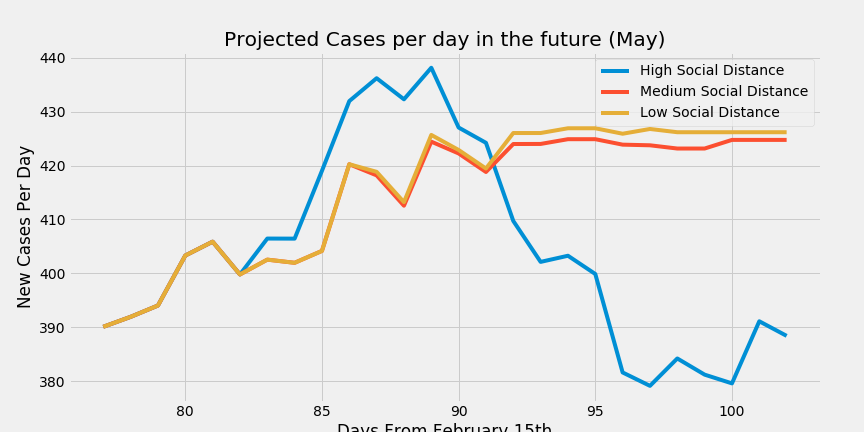
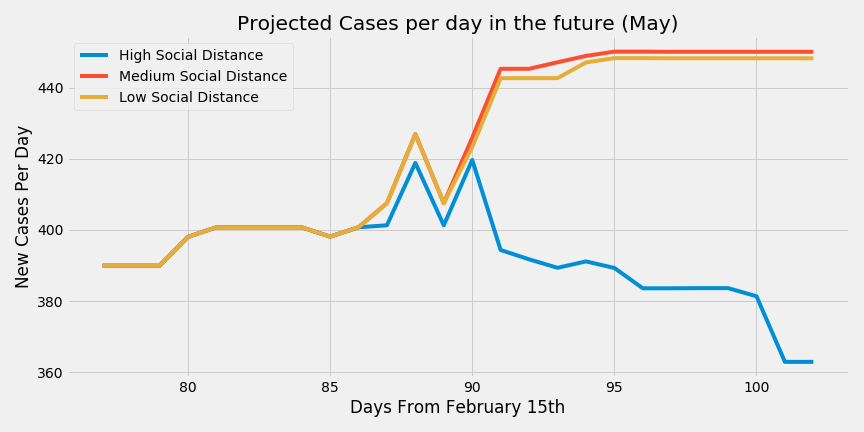
Rename commit

diff --git a/src/main.py b/src/main.py
@@ -1,9 +1,5 @@
 '''
 See notebooks/EDA.ipynb for plots
-
-Bring in data from travel from other countries - maybe that would help?
-https://travel.trade.gov/view/m-2017-I-001/index.asp
-
 '''
 import pandas as pd
 import datetime

diff --git a/README.md b/README.md
@@ -2,12 +2,15 @@
 <img src="images/covid19_economy_jpg.jpeg" width="500">
 <p>
 
-## Forecasting the Future of Covid 19 with Social Distancing 
-The recent pandemic that has struck the world has been The question on everyone's minds is when will things go back to normal in the United States from the Covid-19 pandemic? In this Capstone I attempt to predict the future number of new cases of the virus per day in New York. 
+# Forecasting the Future of Covid 19 with Social Distancing 
+The question on everyone's minds is when will things go back to normal in the United States from the Covid-19 pandemic? In this Capstone I attempt to predict the future number of new cases of the virus per day in New York and try to find an end in sight using data of how people are socially distancing.
 
-# Data + Cleaning
+## Data + Cleaning
+
+I primarily used 3 different datasets for this study and combined them into a single DataFrame for analysis and prediction.
+
 New York Times: Github Repo of cases/deaths daily per state
-The New York Times offers dataset on the number of cases and deaths by Covid-19 per each state. I created a new column of daily new cases and divided these numbers by the state's population for a fairer comparison from state to state, resulting in new cases per 1 million residents.
+The New York Times offers dataset on the number of cases and deaths by Covid-19 per each state. I created a new column of daily new cases and divided these numbers by the state's population for a fairer comparison from state to state, resulting in new cases per 1 million residents. To smooth out the many spikes in the number of new cases per day, I used a 7 day moving average and used this as the target variable.
 <p>
 <img src="images/Covid_Data.png" width="300">
 <p>
@@ -18,60 +21,75 @@ Apple offers a dataset on mobility that breaks categories into walking, driving,
 <p>
 
 Google: Global Mobility Data
-From Google, I was able to get a massive dataset detailing mobility trends througout the past few months at grocery stores/ pharmacies, parks, transit stations, retail/recreation outlets, residential, and workplaces. This data was reported as the percent change from the baseline, the median value, for the corresponding day of the week, during the 5-week period Jan 3–Feb 6, 2020. To make this measurement consistent with the apple data, I added 100 and divided by 100 to get a multiplier of normal for each day.
+From Google, I was able to get a massive dataset detailing mobility trends througout the past few months at grocery stores/ pharmacies, parks, transit stations, retail/recreation outlets, residential, and workplaces. This data was reported as the percent change from the baseline, the median value, for the corresponding day of the week, during the 5-week period Jan 3–Feb 6, 2020. To make this measurement consistent with the apple data, I added 100 and divided by 100 to get a multiplier of normal for each day. I also used a 7 day moving average for these features as well, so that weekend trends were avoided and any correlation would be easier to see.
 <p>
 <img src="images/GoogleData.png" width="600">
 <p>
 
-
-
-
 # Exploratory Data Analysis
+Although there has been news about a shortage of tests being available for the virus in the USA, the data show a very heavy correlation between deaths and cases for New York, so I decided to focus on new cases instead of deaths, as there is earlier and more data available for cases.
 <p>
 <img src="images/DeathVsCases.png" width="500">
 <p>
 
-
-
-<p>
-<img src="images/Covid-19_New.png" width="500">
-<p>
-
-
+I was originally going to do a subset of states, but in the interest of time had to specialize in only one. I sorted the data available by the maximum number of daily cases and plotted them. I chose New York because New York was the first to have new cases in the US, and one of the few to have shown a strong negative trend over time at some point in the data.
 
 <p>
-<img src="images/NY_New_100.png" width="500">
+<img src="images/Top5States.png" width="700">
 <p>
 
+
+When I plotted the data, I noticed that there are numerous spikes in the data whereas the predicted trend should be based on the moving average. Considering this dataset covers a considerable amount of time and data before the outbreak, I decided not to use any training data below the threshold of 100 new daily cases per 1 million population. This is because this data features no new cases and no changes in social distancing. Using the data below the threshold could mislead the model.
+<p>
+<img src="images/NY_New_100.png" width="600">
+<p>
+
+Looking at a scatter matrix, there seems to be a surprising negative trend between social distancing attributes and daily new cases per population. There seems to be a positive rate of of new cases to presence at home, which is also the opposite of what I was expecting.
 <p>
 <img src="images/scatter100.png"width="700">
 <p>
+
+In case I was mistakenly including too much early pandemic data that could be throwing off my results, I tried a threshold at 300 cases per million population instead.
 
 <p>
 <img src="images/NY_New_300.png">
 <p>
 
+There seems to be a less negative trend, but not a positive one either. When I began this study, I had assumed that the new cases were the dependent variable and the other variables were the independent variables, but could the cause - effect be the other way around?
+
 <p>
 <img src="images/NY_plot300.png"width="700">
 <p>
+
+To get a better visual of how each mobility trend may relate to the new number of cases each day, I scaled each feature data point to a fraction of its maximum value in the interval closest to the peak of the plot. It definitely appears as though a decrease in activity to various venues is followed by a decrease in new cases. Something noteable I found is that there are several spikes in outside activity from days 65-70 and a temporary increase in new cases. It definitely appears that social distancing effects the number of new cases, but with a time lag, which is likely why these trends were not as apparent on the scatter matrices.
+
+Something notable is that there seems to be an explosion in activity in the later portion of the data, concurrent with a sharp decrease in the number of new cases. Looking at previous trends, I don't think converging to 0 anytime soon is going to be very likely.
 
 <p>
 <img src="images/NY_Social_Distance_days.png">
 <p>
 
-# Forecasting
+## Forecasting
+In order to set up a regression model and predict future values, I converted my original dataframe into a time series matrix and I decided to use a prediction of 20 days using the moving average data points as this seemed like a large enough interval to cover any cause-effects between the features and the target that may be lagging behind. The time series ended up with about 188 features in all, so I decided to use a random forest on my model as it can support high dimensionality with high accuracy.
+
+I split the data into a training and testing group. Training data was used from the threshold to day 70, and Test Data was used from day 70 to the last known point.
+
+Looking at the performance of the model on the testing set, it doesn't appear to be a great fit. Of course, it is very difficult to model this, and given the large shift in activity from the later part of the dataset, it makes sense that the model would predict a surge in the number of daily new cases.
 
 <p>
 <img src="images/RF_Performance.png">
 <p>
 
+I used my model to predict values out 20 days from the last known data point, this brings us to around the end of May. Using a prediction matrix with varying levels of activity, it does look like a high degree of social distancing and staying home will reduce the number of cases, but we still a long way from 0.
+
 <p>
 <img src="images/Predictions.png">
 <p>
 
-# Conclusion
+## Conclusion
+Unfortunately, it does not look like the occurrence of new cases of Covid-19 are going away anytime soon. Although everyone is eager to finally get out of the house after so long, it looks like social distancing is effective in preventing the spread of the virus, with a time delay, and hopefully we will continue to see numbers go down further in the near future.
 
-# Future Plans/Ideas for improvement
+## Future Plans/Ideas for improvement
 - Consider other models
 - Import more features from other data sources:
     - Look at South Korea data - use that to predict into future?
@@ -83,7 +101,7 @@ From Google, I was able to get a massive dataset detailing mobility trends throu
 - Use web-scraping and NLP to analyze the type of words being used in recent economic news (ratio of words such as "lockdown", "quarantine", "extended" to words like "protest", "end", "open") to determine better scaling factors for my prediction matrix 
 
 
-# Data Sources:
+## Data Sources:
 
 Header image : https://spectrumlocalnews.com/nc/triangle-sandhills/tying-it-together-with-tim-boyum/2020/04/28/tying-it-together-with-tim-boyum-checking-the-pulse-on-nc-s-economic-health-during-the-coronavirus-crisis
 
